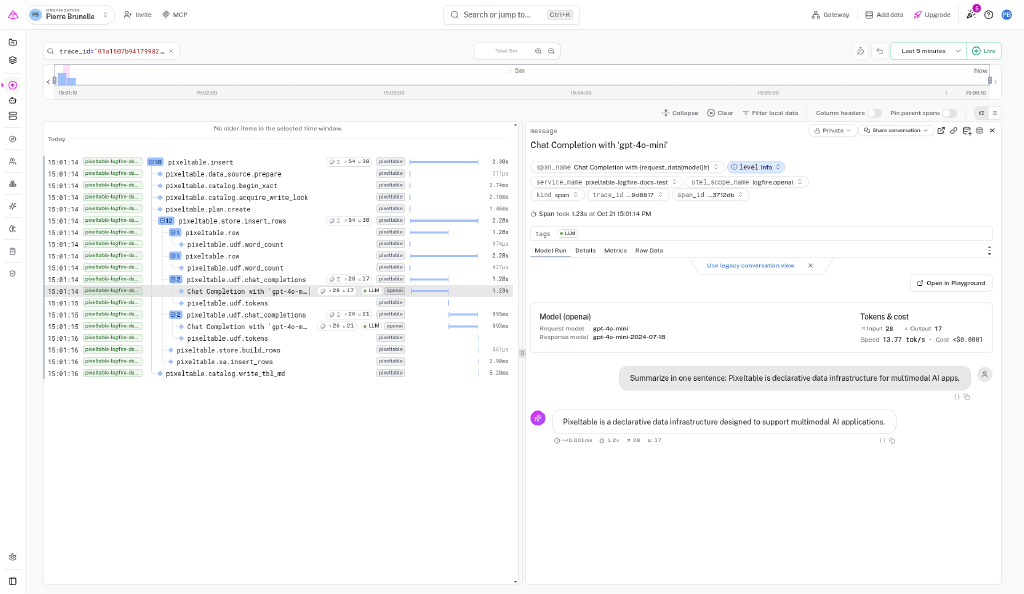
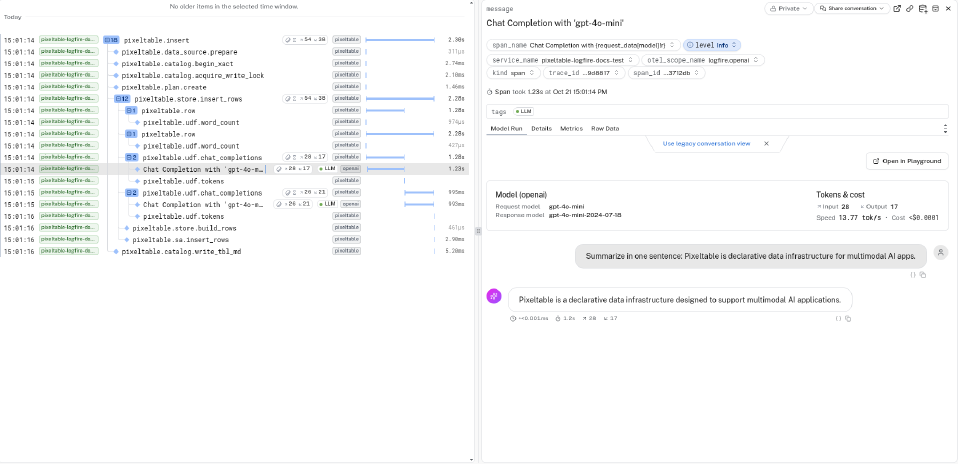
Pixeltable docs: fix install, span levels, and troubleshooting
- Install opentelemetry-instrumentation-pixeltable directly; Logfire brings its own OTel SDK.
- Correct what span_level 'info' keeps, where OpenAI spans nest, and the 100-row span cap.
- The missing-spans fix is calling instrument() before the first operation: the instrumentor's
  ProxyTracer resolves the global provider on each span, so order relative to configure() does not matter.
- Move the data warning before the code; drop the generic duplicate-span bullet.
- List Pixeltable as an AI Framework in the integrations table.
- Crop the screenshot to the trace view, removing the account bar and trace-id search.

diff --git a/docs/integrations/llms/pixeltable.md b/docs/integrations/llms/pixeltable.md
@@ -10,7 +10,7 @@ infrastructure for multimodal AI apps: you define tables and **computed columns*
 model or a Python function), and Pixeltable calls the models when rows are inserted or updated, then stores the results.
 
 Pixeltable has **native OpenTelemetry** tracing in the `opentelemetry-instrumentation-pixeltable` package.
-OpenTelemetry (OTel) is the open industry standard for collecting traces, metrics, and logs. Each table
+OpenTelemetry (OTel) is the open industry standard for collecting traces, metrics, and logs. Each Pixeltable
 operation becomes one **trace** (the full journey of that operation, made of nested **spans**, each a single unit of work
 with a name, a start, and a duration). Once [`logfire.configure()`][logfire.configure] sets **Logfire** as the global
 tracer provider, Pixeltable's spans flow to **Logfire** with no extra exporter.
@@ -18,7 +18,8 @@ tracer provider, Pixeltable's spans flow to **Logfire** with no extra exporter.
 ## What you'll capture
 
 - One trace per Pixeltable operation: `insert`, `update`, `add_computed_column`, `collect`, `create_table`, and more
-- A span per row and per user-defined function (UDF) call, with attributes such as `pxt.table_id`,
+- A span per user-defined function (UDF) call, and per row for the first 100 rows of each operation, with attributes
+  such as `pxt.table_id`,
   `pxt.num_rows`, `pxt.column`, and `pxt.udf_path`
 - With [`logfire.instrument_openai()`][logfire.Logfire.instrument_openai], the OpenAI calls made by computed columns,
   nested under the UDF span that made them, with model, messages, token counts, and cost
@@ -31,15 +32,21 @@ Install `logfire`:
 
 {{ install_logfire() }}
 
-Install Pixeltable with its OpenTelemetry extra, plus the `openai` package that the example's computed column uses:
+Install Pixeltable, its OpenTelemetry instrumentation, and the `openai` package that the example's computed column uses.
+Logfire brings its own OpenTelemetry SDK, so the `pixeltable[otel]` extra's SDK and exporters are not needed here:
 
 ```bash
-pip install 'pixeltable[otel]' openai
+pip install pixeltable opentelemetry-instrumentation-pixeltable openai
 ```
 
 ## Trace a table
 
-Call `logfire.configure()` first, then attach Pixeltable's instrumentor before the first Pixeltable operation:
+!!! warning "Prompts and completions are sent to Logfire"
+    `logfire.instrument_openai()` records message content. Use [scrubbing](../../how-to-guides/scrubbing.md) to
+    redact sensitive values before they leave your machine.
+
+Call `logfire.configure()`, `logfire.instrument_openai()`, and `PixeltableInstrumentor().instrument()` before the first
+Pixeltable operation:
 
 ```python skip-run="true" skip-reason="external-connection" hl_lines="1 3 4 6 8"
 import logfire
@@ -81,8 +88,9 @@ def word_count(text: str) -> int:
     return len(text.split())
 ```
 
-`span_level='debug'` adds the per-row and per-UDF spans. The default, `'info'`, keeps only the operation-level spans,
-so the OpenAI spans attach to the operation span instead.
+`span_level='debug'` adds per-row spans (up to 100 per operation) and per-UDF-call spans, so each OpenAI span nests
+under the `pixeltable.udf.chat_completions` span that made it. The default, `'info'`, keeps operation, catalog, store,
+and SQL spans, so the OpenAI spans nest under `pixeltable.store.insert_rows` instead.
 
 ## Verify it worked
 
@@ -100,20 +108,14 @@ The example above looks like this in Logfire:
 
 ## Troubleshoot missing spans
 
-- **No Pixeltable spans appear:** call `logfire.configure()` before `PixeltableInstrumentor().instrument()`, and call
-  both before the first Pixeltable operation.
+- **No Pixeltable spans appear:** call `PixeltableInstrumentor().instrument()` before the first Pixeltable operation,
+  in the same process as `logfire.configure()`.
 - **No OpenAI spans under the UDF spans:** call `logfire.instrument_openai()` before the first insert. Computed-column
   results are stored, so `collect()` doesn't call the model again. OpenAI spans appear on `insert`, `update`, and
   when `add_computed_column` fills existing rows.
-- **Duplicate LLM spans:** don't also enable another OpenAI instrumentor (for example an OpenInference one) in the
-  same process.
 - **No data appears in Logfire:** check that your write token (the credential your deployed app uses to send
   data to a Logfire project) is set. Run `logfire projects use <your-project>` locally, or set the
   `LOGFIRE_TOKEN` environment variable in production.
-
-!!! warning "Prompts and completions are sent to Logfire"
-    `logfire.instrument_openai()` records message content. Use [scrubbing](../../how-to-guides/scrubbing.md) to
-    redact sensitive values before they leave your machine.
 
 ## Next steps
 

diff --git a/docs/integrations/index.md b/docs/integrations/index.md
@@ -83,7 +83,7 @@ The below table lists these integrations and any corresponding `logfire.instrume
 | [Mirascope](llms/mirascope.md)            | AI Framework            | N/A (use mirascope `@with_logfire` decorator)                                                                                                                          |
 | [MySQL](databases/mysql.md)               | Database                | [`logfire.instrument_mysql()`][logfire.Logfire.instrument_mysql]                                                                                                       |
 | [OpenAI](llms/openai.md)                  | AI                      | [`logfire.instrument_openai()`][logfire.Logfire.instrument_openai]                                                                                                     |
-| [Pixeltable](llms/pixeltable.md)          | AI Data Infrastructure  | N/A (native OpenTelemetry via `opentelemetry-instrumentation-pixeltable`)                                                                                              |
+| [Pixeltable](llms/pixeltable.md)          | AI Framework            | N/A (native OpenTelemetry via `opentelemetry-instrumentation-pixeltable`)                                                                                              |
 | [Psycopg](databases/psycopg.md)           | Database                | [`logfire.instrument_psycopg()`][logfire.Logfire.instrument_psycopg]                                                                                                   |
 | [Pytest](pytest.md)                       | Testing                 | N/A (built-in plugin, use `pytest --logfire`)                                                                                                                          |
 | [PyMongo](databases/pymongo.md)           | Database                | [`logfire.instrument_pymongo()`][logfire.Logfire.instrument_pymongo]                                                                                                   |
